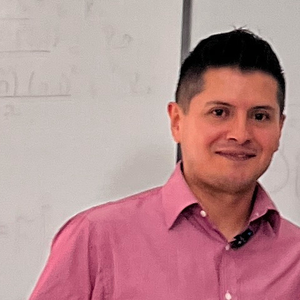
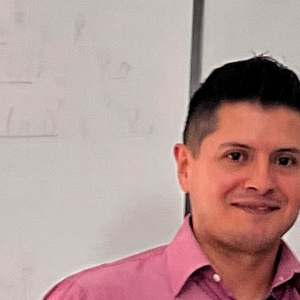
Agregar foto Fabián Iñiguez y recentrar foto Andrés Robles

diff --git a/index.html b/index.html
@@ -799,7 +799,7 @@
                     <div class="speaker-topic">Riesgos de IA en las pasarelas de pagos</div>
                 </div>
                 <div class="speaker-card">
-                    <div class="speaker-avatar">FI</div>
+                    <img src="conferenciastas/fabianIniguez_crop.png" class="speaker-avatar" style="object-fit:cover;" alt="Fabián Iñiguez">
                     <div class="speaker-name">Ing. Fabi&aacute;n I&ntilde;iguez, Mgtr.</div>
                     <div class="speaker-role">Grupo Radical</div>
                     <div class="speaker-topic">Tras la huella del Hacker &ndash; Ciberseguridad en el Ecuador</div>
